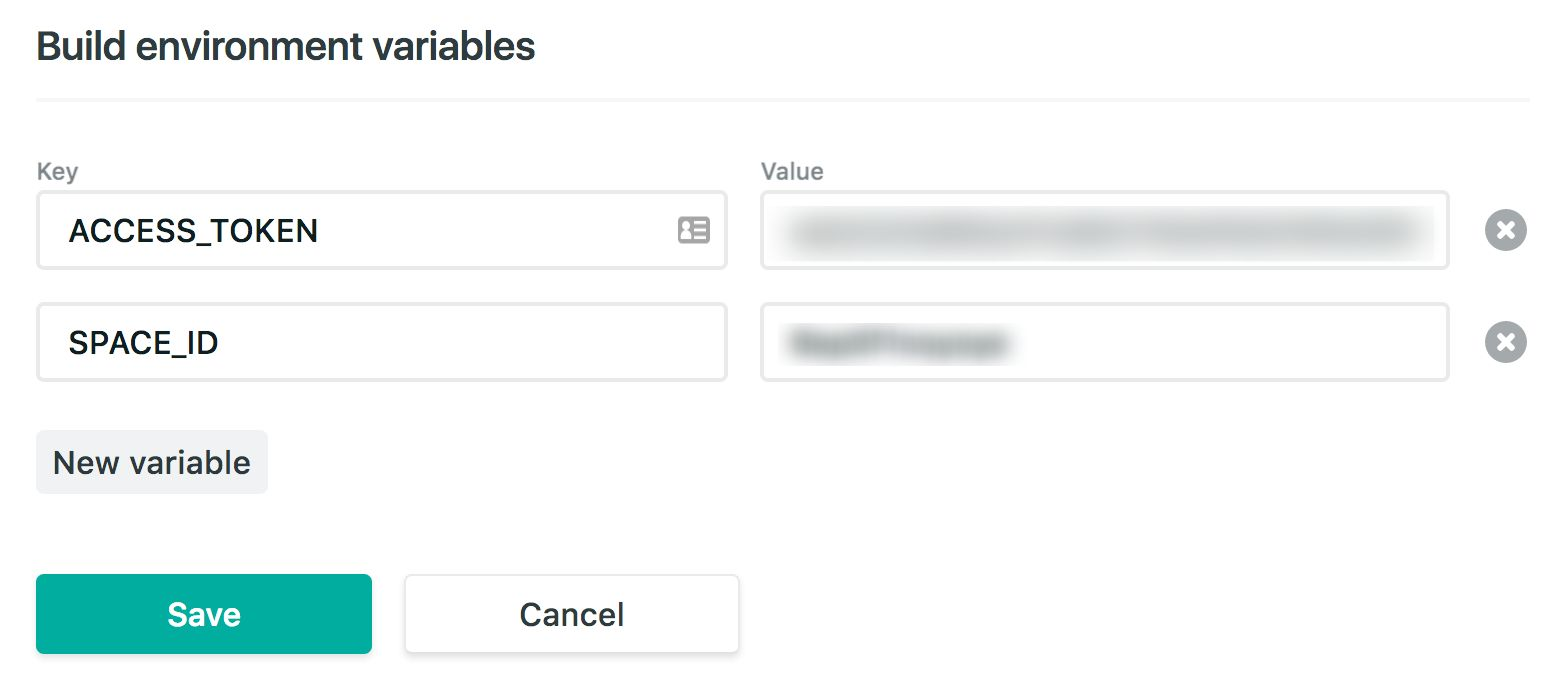
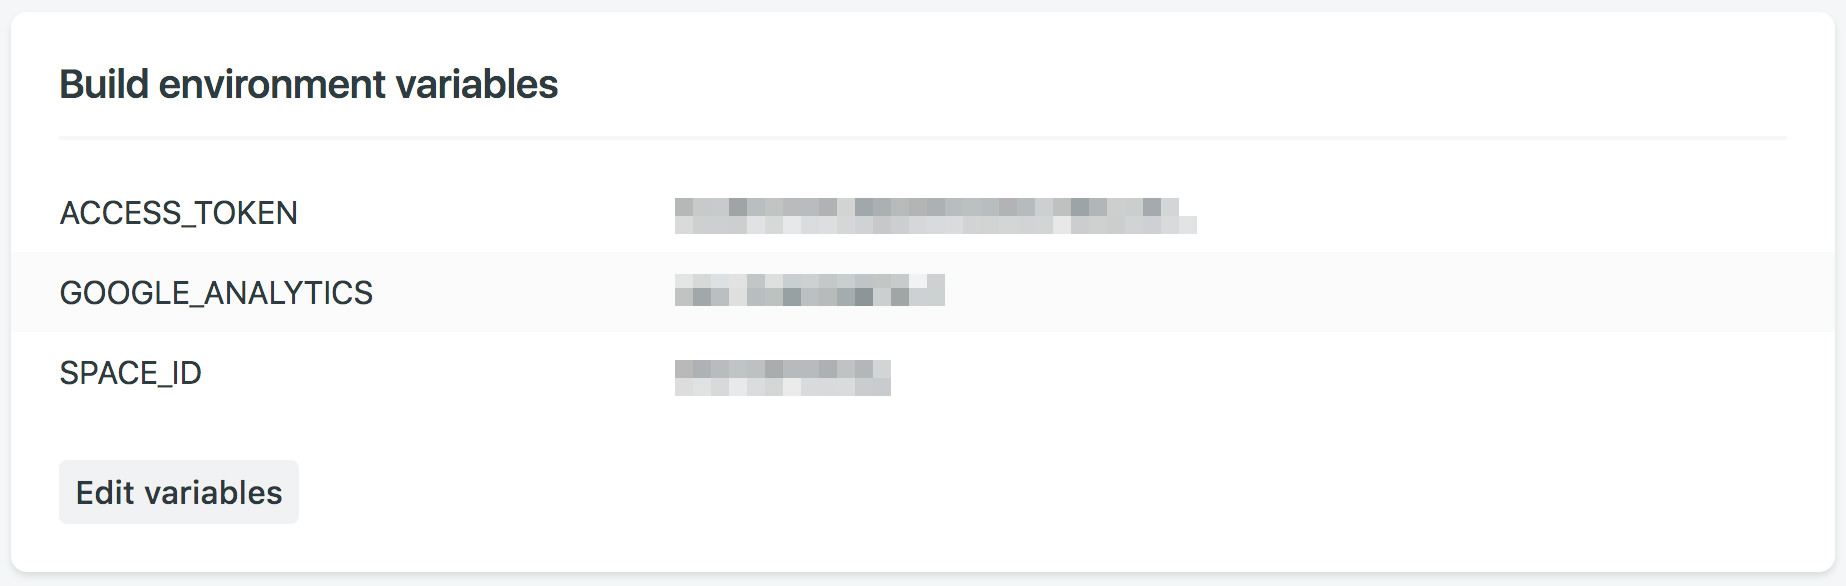
minor documentation cleanup

diff --git a/src/utils/siteConfig.js b/src/utils/siteConfig.js
@@ -1,17 +1,12 @@
 module.exports = {
   siteTitle: 'GCN',
-
   siteDescription:
     'A starter template to build amazing static websites with Gatsby, Contentful and Netlify',
   siteUrl: 'https://gcn.netlify.com', // Site domain. Do not include a trailing slash! If you wish to use a path prefix you can read more about that here: https://www.gatsbyjs.org/docs/path-prefix/
-
-  author: 'GCN User', // Author for RSS author segment and SEO schema.
-
-  // PWA and Offline Manifest Settings
+  author: 'GCN User', // Author for RSS author segment and SEO schema
   shortTitle: 'GCN App', // Used for App manifest e.g. Mobile Home Screen
-  siteLogo: '/logos/logo-512.png', // Logo used for SEO, RSS, and manifest.
+  siteLogo: '/logos/logo-512.png', // Logo used for SEO, RSS, and App manifest
   backgroundColor: '#e9e9e9', // Used for Offline Manifest
   themeColor: '#121212', // Used for Offline Manifest
-
-  copyright: 'Copyright © 2018 GCN User', // Copyright string for the RSS feed. Could also go in the footer.
+  copyright: 'Copyright © 2018 GCN User', // Copyright string for the RSS feed
 }

diff --git a/README.md b/README.md
@@ -1,7 +1,9 @@
 # gatsby-starter-gcn
+
 A starter template to build amazing static websites with Gatsby, Contentful and Netlify. Inspired by [gatsby-contentful-starter](https://github.com/contentful-userland/gatsby-contentful-starter).
 
 ## Features
+
 * Contentful integration with ready to go placeholder content
 * Netlify integration including a pre-built contact form
 * Minimal responsive design - made to customize or tear apart
@@ -10,6 +12,7 @@ A starter template to build amazing static websites with Gatsby, Contentful and 
 * Google Analytics
 
 ## Demo
+
 https://gcn.netlify.com/
 
 ![](screenshots/demo.jpg)
@@ -17,6 +20,7 @@ https://gcn.netlify.com/
 ## Getting Started
 
 ### Install
+
 ```
 git clone https://github.com/ryanwiemer/gatsby-starter-gcn.git
 npm i
@@ -30,11 +34,11 @@ gatsby new gatsby-starter-gcn https://github.com/ryanwiemer/gatsby-starter-gcn.g
 
 ### Setup Contentful
 
-1. [Sign up](https://www.contentful.com/sign-up/) for Contentful and create a new empty space
+1.  [Sign up](https://www.contentful.com/sign-up/) for Contentful and create a new empty space
 
-2. `npm run setup`
+2.  `npm run setup`
 
-3. Enter in the requested info for your Contentful space found here: **app.contentful.com** → **Space Settings** → **API keys**  
+3.  Enter in the requested info for your Contentful space found here: **app.contentful.com** → **Space Settings** → **API keys**
 
 ## Customization
 
@@ -45,8 +49,15 @@ Edit `/src/utils/siteConfig.js`
 ```
 module.exports = {
   siteTitle: 'GCN',
-  siteDescription: 'A starter template to build amazing static websites with Gatsby, Contentful and Netlify',
-  siteUrl: 'https://gcn.netlify.com'
+  siteDescription:
+    'A starter template to build amazing static websites with Gatsby, Contentful and Netlify',
+  siteUrl: 'https://gcn.netlify.com',
+  author: 'GCN User',
+  shortTitle: 'GCN App',
+  siteLogo: '/logos/logo-512.png',
+  backgroundColor: '#e9e9e9',
+  themeColor: '#121212',
+  copyright: 'Copyright © 2018 GCN User'
 };
 ```
 
@@ -78,17 +89,17 @@ const theme = {
 
 ### Manual Netlify Deployment
 
-1. Run `gatsby build`
+1.  Run `gatsby build`
 
-2. Drag and drop the folder `/public/` into Netlify
+2.  Drag and drop the folder `/public/` into Netlify
 
 ### Netlify Deployment From Git (Recommended)
 
-1. [New Netlify website from Git](https://app.netlify.com/start)
+1.  [New Netlify website from Git](https://app.netlify.com/start)
 
-2. Connect with GitHub and select your repo
+2.  Connect with GitHub and select your repo
 
-3. Navigate to Netlify: **Settings** → **Build & Deploy** → **Build Environment Variables**. Add the following environment variables using the space id and production access token from Contentful. They must be named exactly like this in order to work properly.
+3.  Navigate to Netlify: **Settings** → **Build & Deploy** → **Build Environment Variables**. Add the following environment variables using the Space ID and Production Access Token from Contentful. Additionally if desired you can enter a Google Analytics ID. The variables must be named exactly like this in order to work properly.
 
 ```
 ACCESS_TOKEN
@@ -98,33 +109,33 @@ GOOGLE_ANALYTICS
 
 ![](screenshots/netlify-build-environment-variables.jpg)
 
-4. Navigate to Netlify: **Deploys**. Click `Trigger deploy` to manually trigger a deploy to confirm the website is building successfully using your build environment variables. At this point be aware that every time you push to `master` a deploy will automatically start and be published to production.
+4.  Navigate to Netlify: **Deploys**. Click `Trigger deploy` to manually trigger a deploy to confirm the website is building successfully using your build environment variables. At this point be aware that every time you push to `master` a deploy will automatically start and be published to production.
 
 ## Additional Settings
 
 ### Contentful Webhook (Optional)
 
-1. Navigate to Netlify:
-**Settings** → **Build & Deploy** → **Build hooks**.
-Create a new build hook.
+1.  Navigate to Netlify:
+    **Settings** → **Build & Deploy** → **Build hooks**.
+    Create a new build hook.
 
-2. Navigate to Contentful:
- **app.contentful.com** → **Space Settings** → **Webhooks**. Create a webhook using the Netlify build URL that you just created
- and configure which events should trigger the build on production. For example the following will rebuild the production website every time a post or page is published, unpublished or deleted:
+2.  Navigate to Contentful:
+    **app.contentful.com** → **Space Settings** → **Webhooks**. Create a webhook using the Netlify build URL that you just created
+    and configure which events should trigger the build on production. For example the following will rebuild the production website every time a post or page is published, unpublished or deleted:
 
 ![](screenshots/contentful-webhook-selected-events.jpg)
 
-
 ### Netlify Form Notifications (Optional)
 
-1. Navigate to Netlify:
-**Forms** → **Notifications**
+1.  Navigate to Netlify:
+    **Forms** → **Notifications**
 
-2. Click the add notification dropdown and select your desired notification method.
+2.  Click the add notification dropdown and select your desired notification method.
 
 ![](screenshots/netlify-form-notifcations.jpg)
 
 ## Useful Tips
+
 * If you make edits to your Contentful space while running `gatsby develop` you will need to stop it and rerun the command to see the changes reflected. For example a new post or page will not automatically show up until the website has been rebuilt.
 
 * Currently this template assumes you have at least **one page**, **one post** and **one tag** in Contentful. If you do not the website will fail to build.
